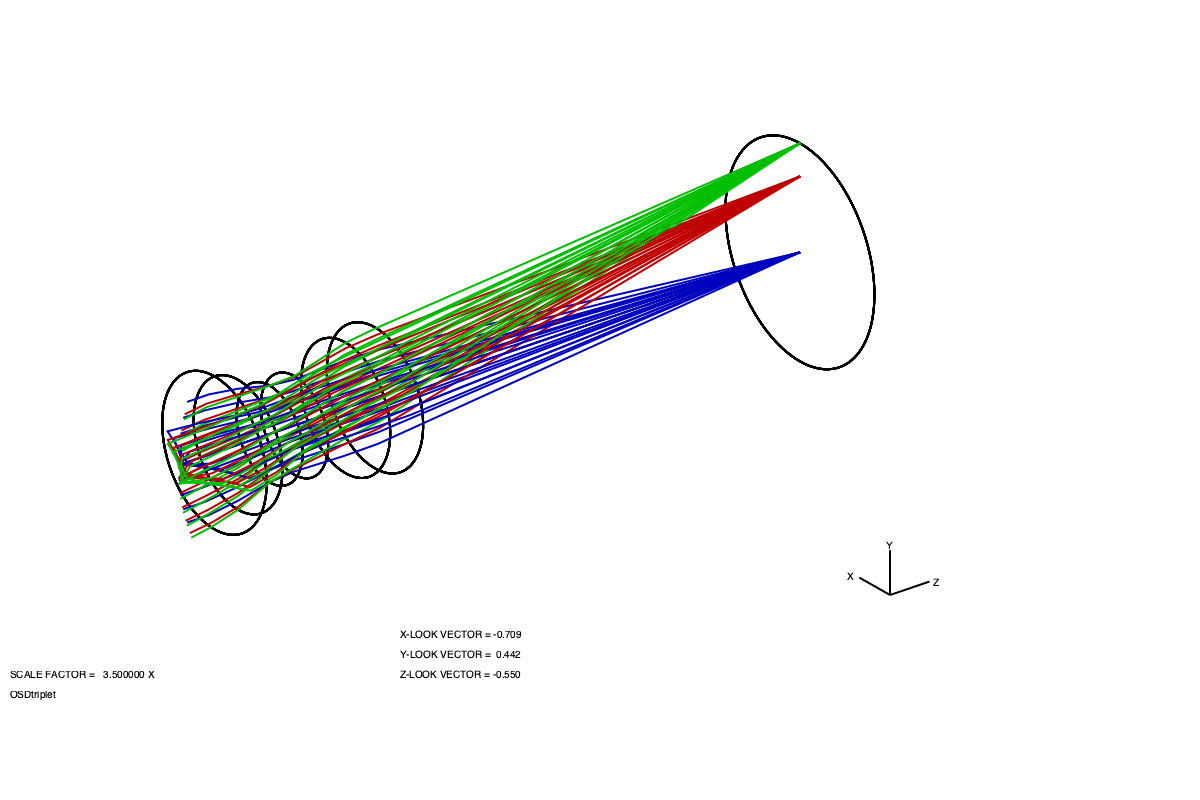
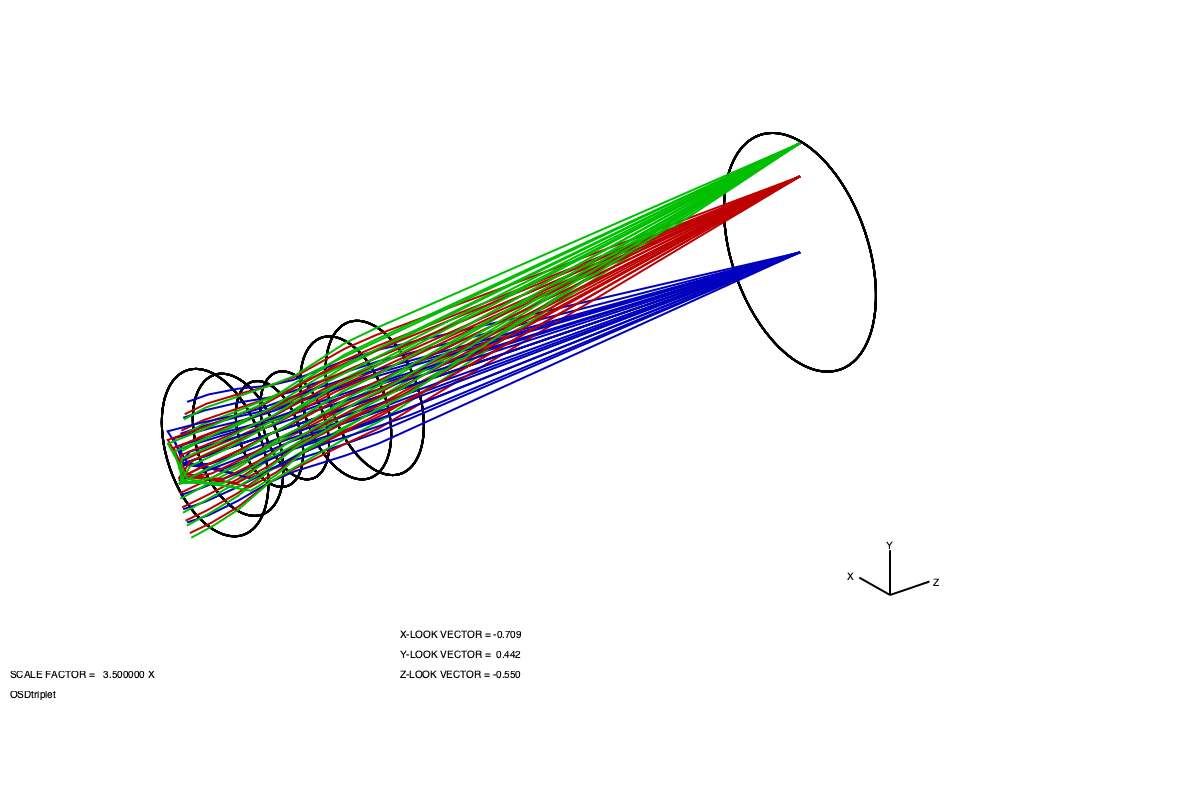
Add per-surface edge (physical) apertures: data model, CIR EDG, ORTHO drawing
Edge apertures define the physical size of a lens element -- larger than the
clear (clipping) aperture to allow for coating roll-off, polishing, and
mounting -- and are used for the lens drawing.  Stored in the typed model, not
ALENS (which is being retired).

- clear_aperture gains semi_edge_y (0 => unset).  Persistent owner is a typed
  ldm%edge_semi_y(:) array, re-applied to clap after each load_surfaces_from_alens
  rebuild, so it survives the ALENS->typed refresh with no ALENS backing.
- ldm accessors: getEdgeSemiAperture / setEdgeSemiAperture, getEdgeApertureScale
  (edge/clip factor, or the system default), clearEdgeApertures, and
  getClearApertureForLensDraw(surf, axis, defaultFactor) -- the seam the drawing
  routines will query instead of raw ALENS(10/11).
- CIR EDG Sk v command sets the per-surface edge semi-aperture.
- sysConfig.defaultEdgeScaleFactor (1.02) + a "Default Edge Aperture Factor"
  control on the System Config apertures tab.
- VIE ORTHO/XY (PLTCLP) now draws physical size: per-surface scale from
  getEdgeApertureScale; the 1.02 default enlarges apertures 2% (vie_orient
  baseline regenerated).
- Save emits CIR EDG Sk v for surfaces with an explicit value; new-lens reset
  via clearEdgeApertures (CV2PRG hooked; other reset paths folded into the
  existing unify-reset TODO in KNOWN_ISSUES).
- Drop a fragile debug LogTermFOR in RAYTRA1 that printed integers through
  real2str's class(*) dummy (uninitialized bytes); regenerated apertures_bes.ref.
[…]

diff --git a/test/KNOWN_ISSUES.md b/test/KNOWN_ISSUES.md
@@ -137,7 +137,8 @@ These commands were added in Batch 9; all are now TESTED in `test/misc_commands.
 ## TODO: Unify the new-lens / lens-load reset paths
 
 The several ways a lens gets loaded/replaced reset their per-lens "extra" state
-(zoom configs, vignetting factors, etc.) through **different mechanisms**, and do
+(zoom configs, vignetting factors, per-surface edge apertures via
+`ldm%clearEdgeApertures()`, etc.) through **different mechanisms**, and do
 not all behave identically:
 
 - **New from template** (`newLens` → `Library/Macros/newlens.zoa`): resets via